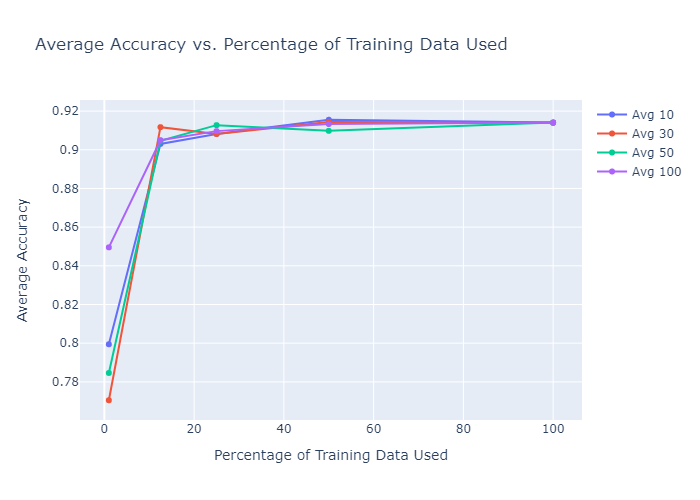
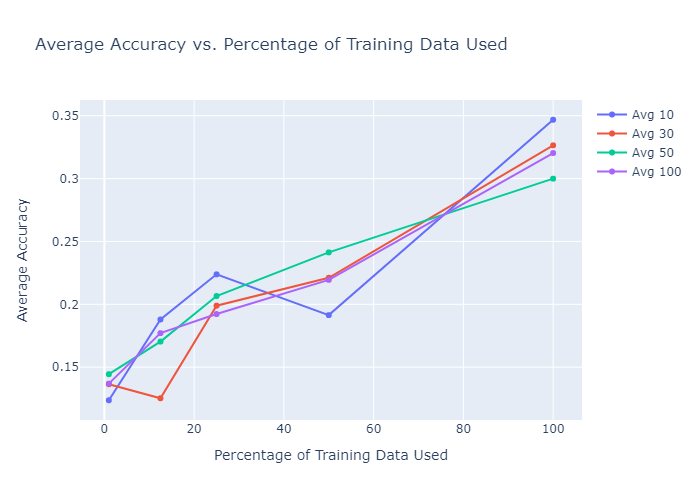
iter one

diff --git a/week 2/Aidan/main.py b/week 2/Aidan/main.py
@@ -1,4 +1,4 @@
-from sklearn.svm import SVC
+from sklearn.neural_network import MLPClassifier
 from sklearn.metrics import accuracy_score
 from sklearn.model_selection import train_test_split
 import pandas as pd
@@ -6,13 +6,12 @@ from scipy.io import arff
 from joblib import Parallel, delayed
 import numpy as np
 import plotly.graph_objects as go
-from sklearn.svm import LinearSVC
 from datetime import datetime
 import plotly.io as pio
 
 def train_and_evaluate(X_sample, y_sample, X_test, y_test, i):
     print(f"running test iteration {i}")
-    clf = SVC(kernel="linear")
+    clf = MLPClassifier(max_iter=1000)  # Increased max_iter to ensure convergence for most cases
     clf.fit(X_sample, y_sample)
     y_pred = clf.predict(X_test)
     print(f"test iteration {i} complete at time {datetime.now()}")
@@ -20,7 +19,7 @@ def train_and_evaluate(X_sample, y_sample, X_test, y_test, i):
 
 def main_optimized(avg_per_perc):
     # Load the data
-    data, meta = arff.loadarff('C:\\Users\\Aidan\\MachineLearningResearch\\data\\Dry_Bean_Dataset.arff')  # Adjust path for your setup
+    data, meta = arff.loadarff('C:\\Users\\Aidan\\MachineLearningResearch\\data\\Dry_Bean_Dataset.arff')
     df = pd.DataFrame(data)
     
     # Convert byte strings to regular strings for the target variable
@@ -33,8 +32,6 @@ def main_optimized(avg_per_perc):
     # Splitting the dataset into training and testing sets (50% each)
     X_train, X_test, y_train, y_test = train_test_split(X, y, test_size=0.5, random_state=42)
     
-    # List of percentages
-    #percentages = [1, 2.5, 5, 10, 15, 20, 25, 30, 35, 40, 45, 50, 55, 60, 65, 70, 75, 80, 85, 90, 95, 100]
     percentages = [1, 12.5, 25, 50, 100]
     avg_accuracies = []
     
@@ -48,10 +45,11 @@ def main_optimized(avg_per_perc):
             X_sample, y_sample = X_train, y_train
         else:
             X_sample, _, y_sample, _ = train_test_split(X_train, y_train, train_size=sample_size, shuffle=True)
+        
         print(f"running percentage {perc} with avg amt {avg_per_perc} at time {datetime.now()}")
-        # Use joblib to parallelize the training
         accuracies = Parallel(n_jobs=3)(delayed(train_and_evaluate)(
             X_sample, y_sample, X_test, y_test, i) for i in range(avg_per_perc))
+        
         time_now = datetime.now() - time_now
         print(f"percentage {perc} with avg amt {avg_per_perc} completed at time: {datetime.now()}, total time: {time_now}")
         avg_accuracies.append(np.mean(accuracies))
@@ -59,17 +57,14 @@ def main_optimized(avg_per_perc):
     return percentages, avg_accuracies
 
 if __name__ == "__main__":
-    all_data = []  # Store all the lines
+    all_data = []
     avgs = [10, 30, 50, 100]
     for i in avgs:
         percentages, avg_accuracies = main_optimized(i)
         all_data.append(go.Scatter(x=percentages, y=avg_accuracies, mode='lines+markers', name=f'Avg {i}'))
 
-    # Plot the average accuracies against the percentages
     fig = go.Figure(data=all_data)
     fig.update_layout(title='Average Accuracy vs. Percentage of Training Data Used',
                       xaxis_title='Percentage of Training Data Used',
                       yaxis_title='Average Accuracy')
-    
-    # Save the figure as an image
     pio.write_image(fig, 'plot.png')
